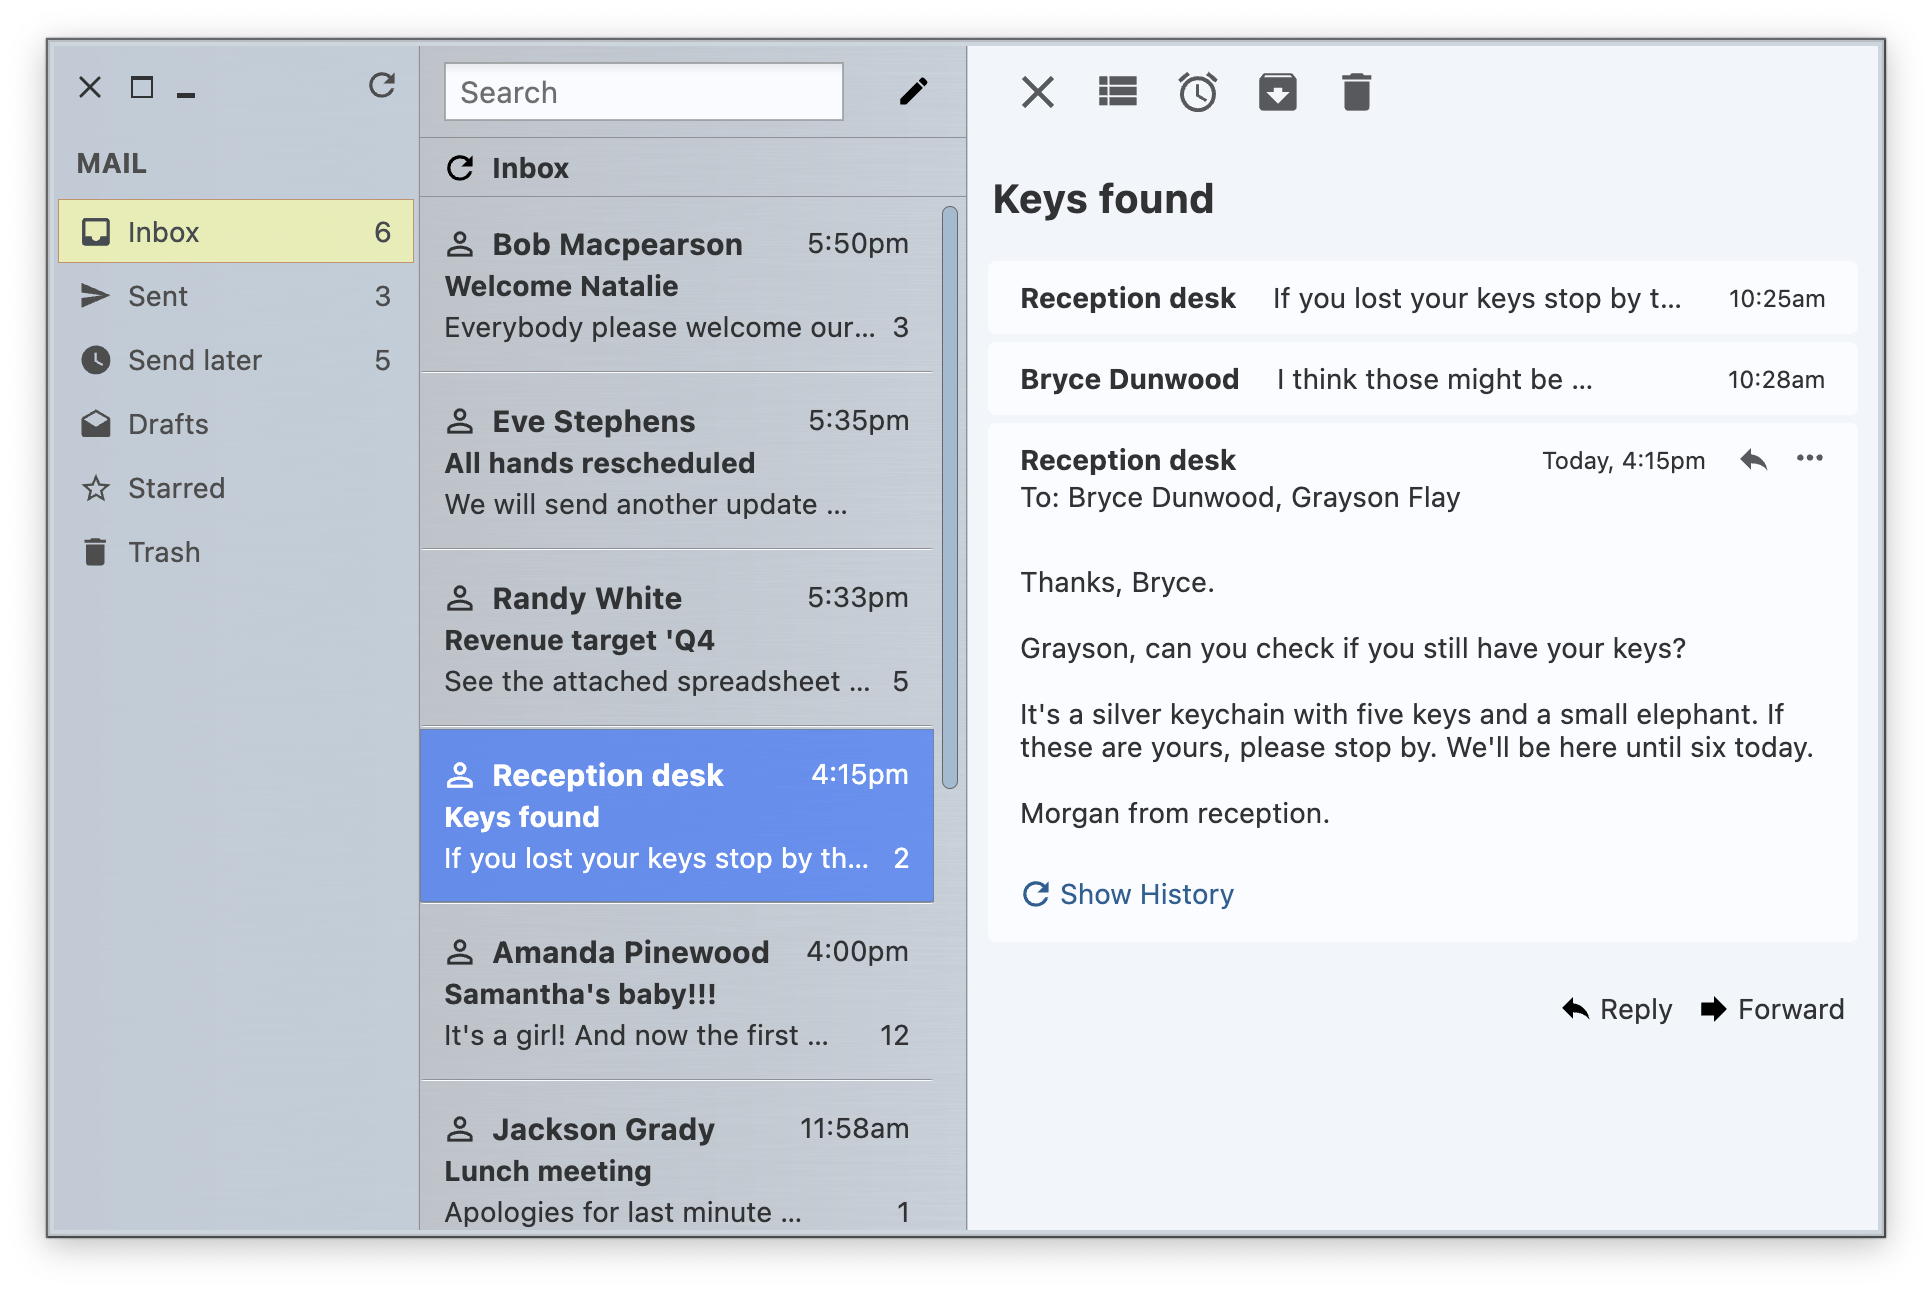
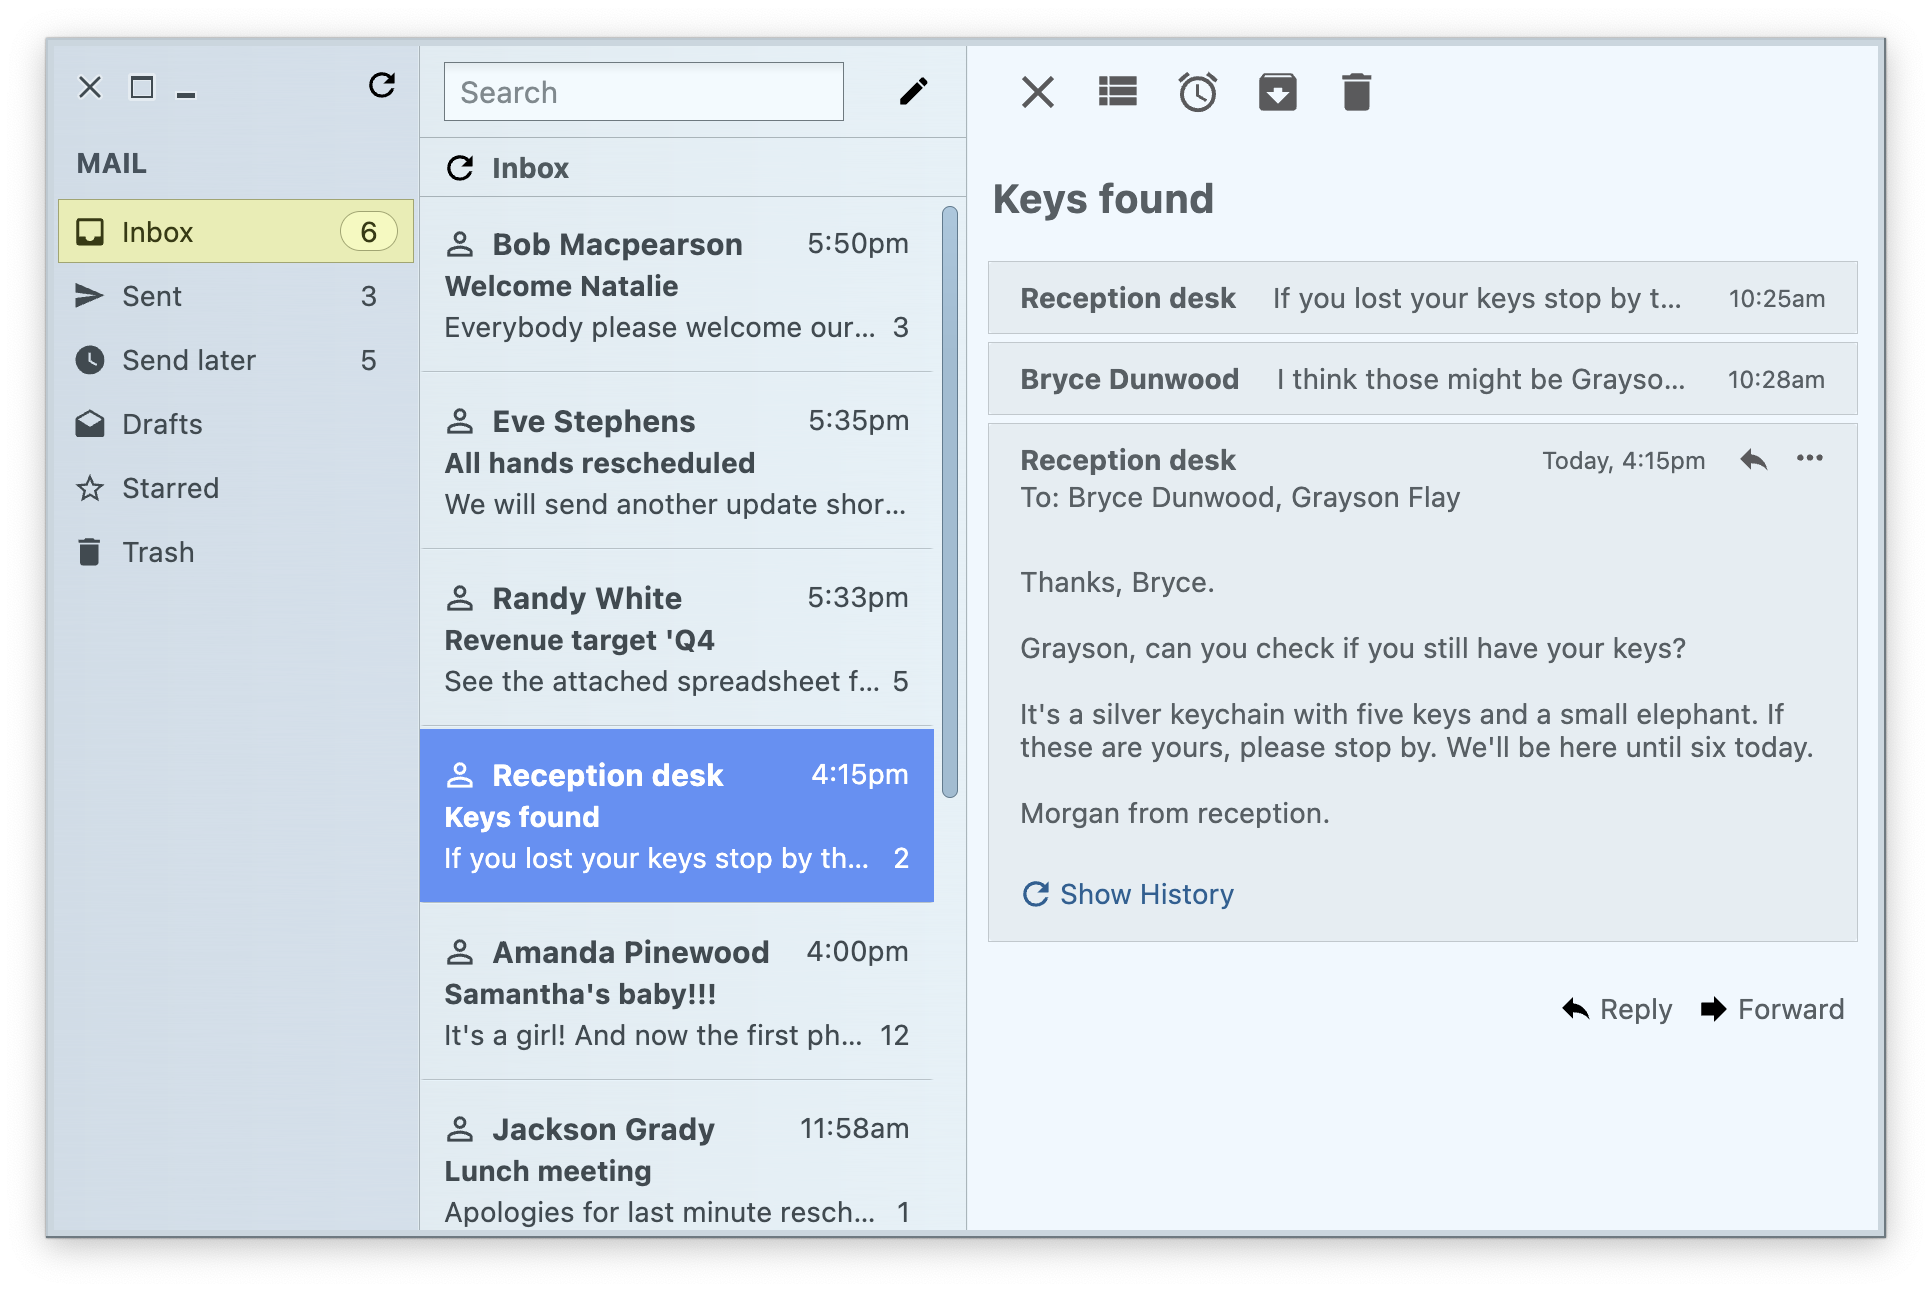
Update the visuals of the Visor Mail demo app
For #81

diff --git a/demo/src/desktopMain/kotlin/org/pushingpixels/aurora/demo/titlepane/mail/DestinationsPanel.kt b/demo/src/desktopMain/kotlin/org/pushingpixels/aurora/demo/titlepane/mail/DestinationsPanel.kt
@@ -15,10 +15,13 @@
  */
 package org.pushingpixels.aurora.demo.titlepane.mail
 
+import androidx.compose.foundation.background
+import androidx.compose.foundation.border
 import androidx.compose.foundation.layout.*
 import androidx.compose.foundation.lazy.LazyColumn
 import androidx.compose.foundation.lazy.itemsIndexed
 import androidx.compose.foundation.lazy.rememberLazyListState
+import androidx.compose.foundation.shape.CircleShape
 import androidx.compose.foundation.window.WindowDraggableArea
 import androidx.compose.runtime.Composable
 import androidx.compose.runtime.mutableStateOf
@@ -87,8 +90,9 @@ fun AuroraWindowScope.DestinationsPanel(modifier: Modifier) {
                             selected = (stateSelection.value == item),
                             onClick = { stateSelection.value = item },
                             sides = Sides.ClosedRectangle,
-                            content = {
-                                Row(modifier = Modifier.padding(horizontal = 6.dp)) {
+                            content = { colorTokens ->
+                                Row(modifier = Modifier.padding(vertical = 6.dp, horizontal = 8.dp),
+                                    verticalAlignment = Alignment.CenterVertically) {
                                     LabelProjection(
                                         contentModel = LabelContentModel(
                                             text = item.title, icon = item.icon
@@ -97,14 +101,25 @@ fun AuroraWindowScope.DestinationsPanel(modifier: Modifier) {
                                             inheritStateFromParent = true,
                                             iconEnabledFilterStrategy = IconFilterStrategy.ThemedFollowText,
                                             horizontalGapScaleFactor = 2.0f,
-                                            horizontalAlignment = HorizontalAlignment.Leading
+                                            horizontalAlignment = HorizontalAlignment.Leading,
+                                            contentPadding = PaddingValues.Zero
                                         )
                                     ).project(modifier = Modifier.weight(1.0f))
                                     if (item.unread > 0) {
                                         LabelProjection(
                                             contentModel = LabelContentModel(text = "${item.unread}"),
-                                            presentationModel = LabelPresentationModel(inheritStateFromParent = true)
-                                        ).project()
+                                            presentationModel = LabelPresentationModel(inheritStateFromParent = true,
+                                                contentPadding = PaddingValues.Zero)
+                                        ).project(modifier =
+                                            Modifier
+                                                .border(
+                                                    width = 0.dp,
+                                                    color = colorTokens.containerOutlineVariant,
+                                                    shape = CircleShape)
+                                                .background(color = colorTokens.containerSurfaceLow,
+                                                    shape = CircleShape)
+                                                .padding(vertical = 2.dp, horizontal = 10.dp)
+                                        )
                                     }
                                 }
                             })

diff --git a/demo/src/desktopMain/kotlin/org/pushingpixels/aurora/demo/titlepane/mail/ThreadPanel.kt b/demo/src/desktopMain/kotlin/org/pushingpixels/aurora/demo/titlepane/mail/ThreadPanel.kt
@@ -16,6 +16,7 @@
 package org.pushingpixels.aurora.demo.titlepane.mail
 
 import androidx.compose.foundation.background
+import androidx.compose.foundation.border
 import androidx.compose.foundation.layout.*
 import androidx.compose.foundation.shape.RoundedCornerShape
 import androidx.compose.foundation.window.WindowDraggableArea
@@ -168,13 +169,14 @@ fun AuroraWindowScope.ThreadPanel(modifier: Modifier) {
 @Composable
 private fun CollapsedMessagePanel(from: String, title: String, timestamp: String) {
     Box(modifier = Modifier.fillMaxWidth().padding(horizontal = 10.dp, vertical = 2.dp)) {
-        val fillTokens = AuroraSkin.colors.getNeutralContainerTokens(AuroraSkin.decorationAreaType)
+        val colorTokens = AuroraSkin.colors.getNeutralContainerTokens(AuroraSkin.decorationAreaType)
         Row(
             modifier = Modifier.fillMaxWidth()
                 .background(
-                    color = fillTokens.containerSurfaceHighest,
+                    color = colorTokens.containerSurfaceHighest,
                     shape = RoundedCornerShape(4.dp)
                 )
+                .border(width = 0.dp, color = colorTokens.containerOutlineVariant)
                 .padding(vertical = 10.dp),
             verticalAlignment = Alignment.CenterVertically
         ) {
@@ -219,13 +221,14 @@ private fun ExpandedMessagePanel(
     iconColorFilter: ColorFilter
 ) {
     Box(modifier = Modifier.fillMaxWidth().padding(horizontal = 10.dp, vertical = 2.dp)) {
-        val fillTokens = AuroraSkin.colors.getNeutralContainerTokens(AuroraSkin.decorationAreaType)
+        val colorTokens = AuroraSkin.colors.getNeutralContainerTokens(AuroraSkin.decorationAreaType)
         Column(
             modifier = Modifier.fillMaxWidth()
                 .background(
-                    color = fillTokens.containerSurfaceHighest,
+                    color = colorTokens.containerSurfaceHighest,
                     shape = RoundedCornerShape(4.dp)
                 )
+                .border(width = 0.dp, color = colorTokens.containerOutlineVariant)
                 .padding(start = 16.dp, end = 16.dp, top = 10.dp, bottom = 16.dp)
         ) {
             Row(
